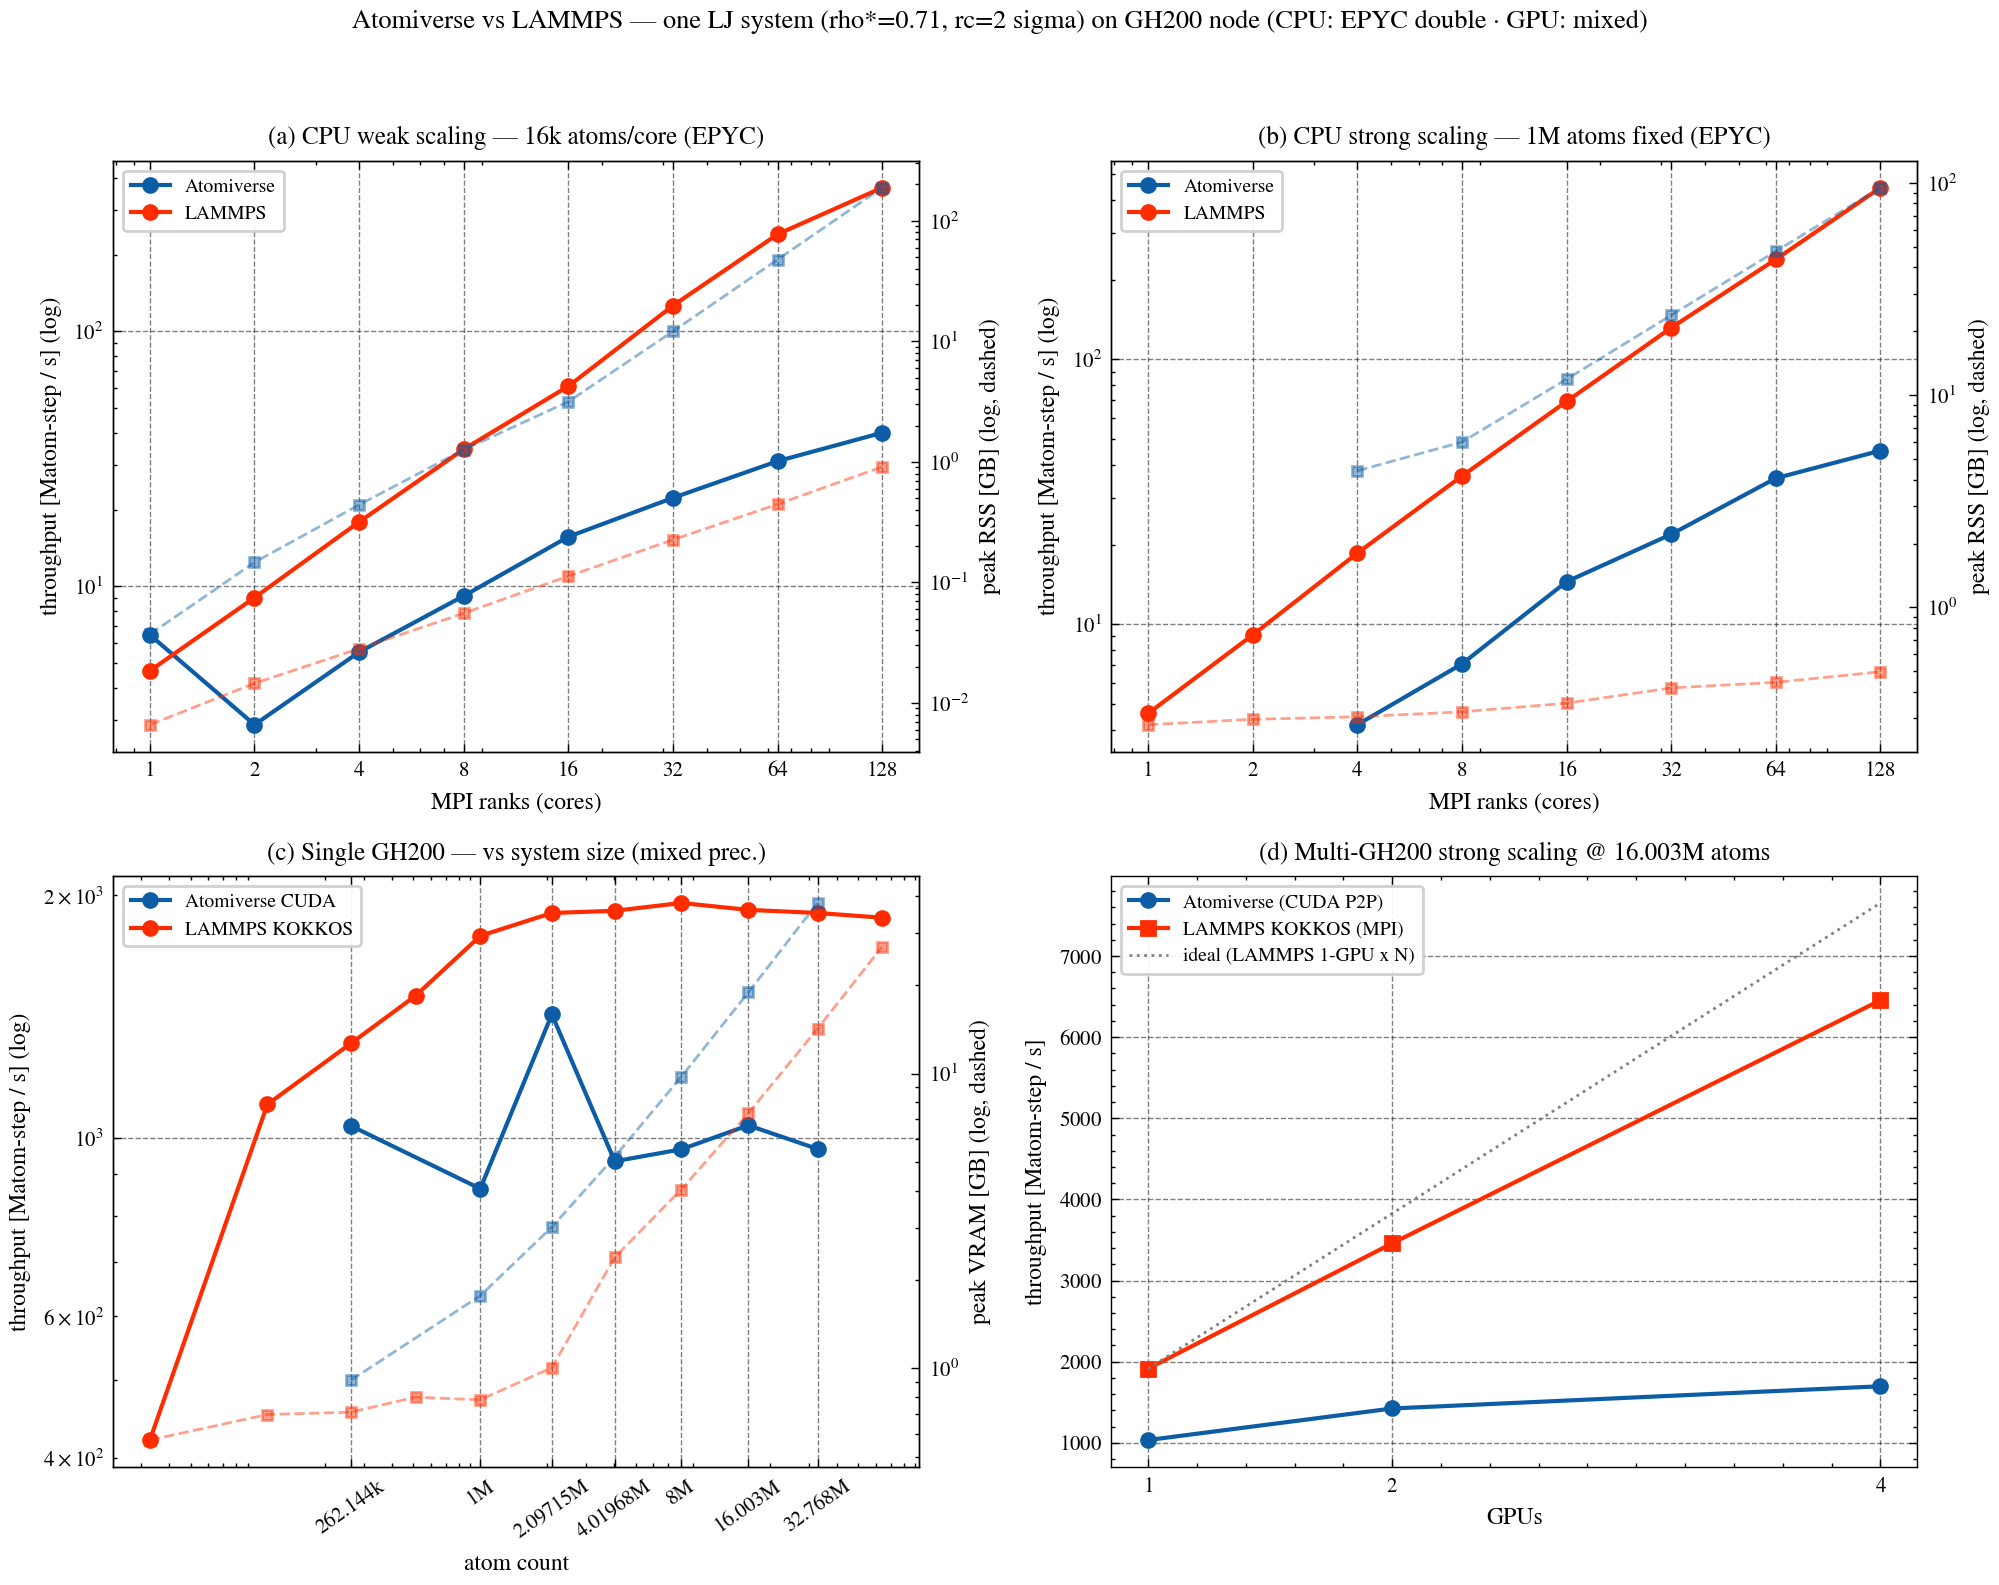
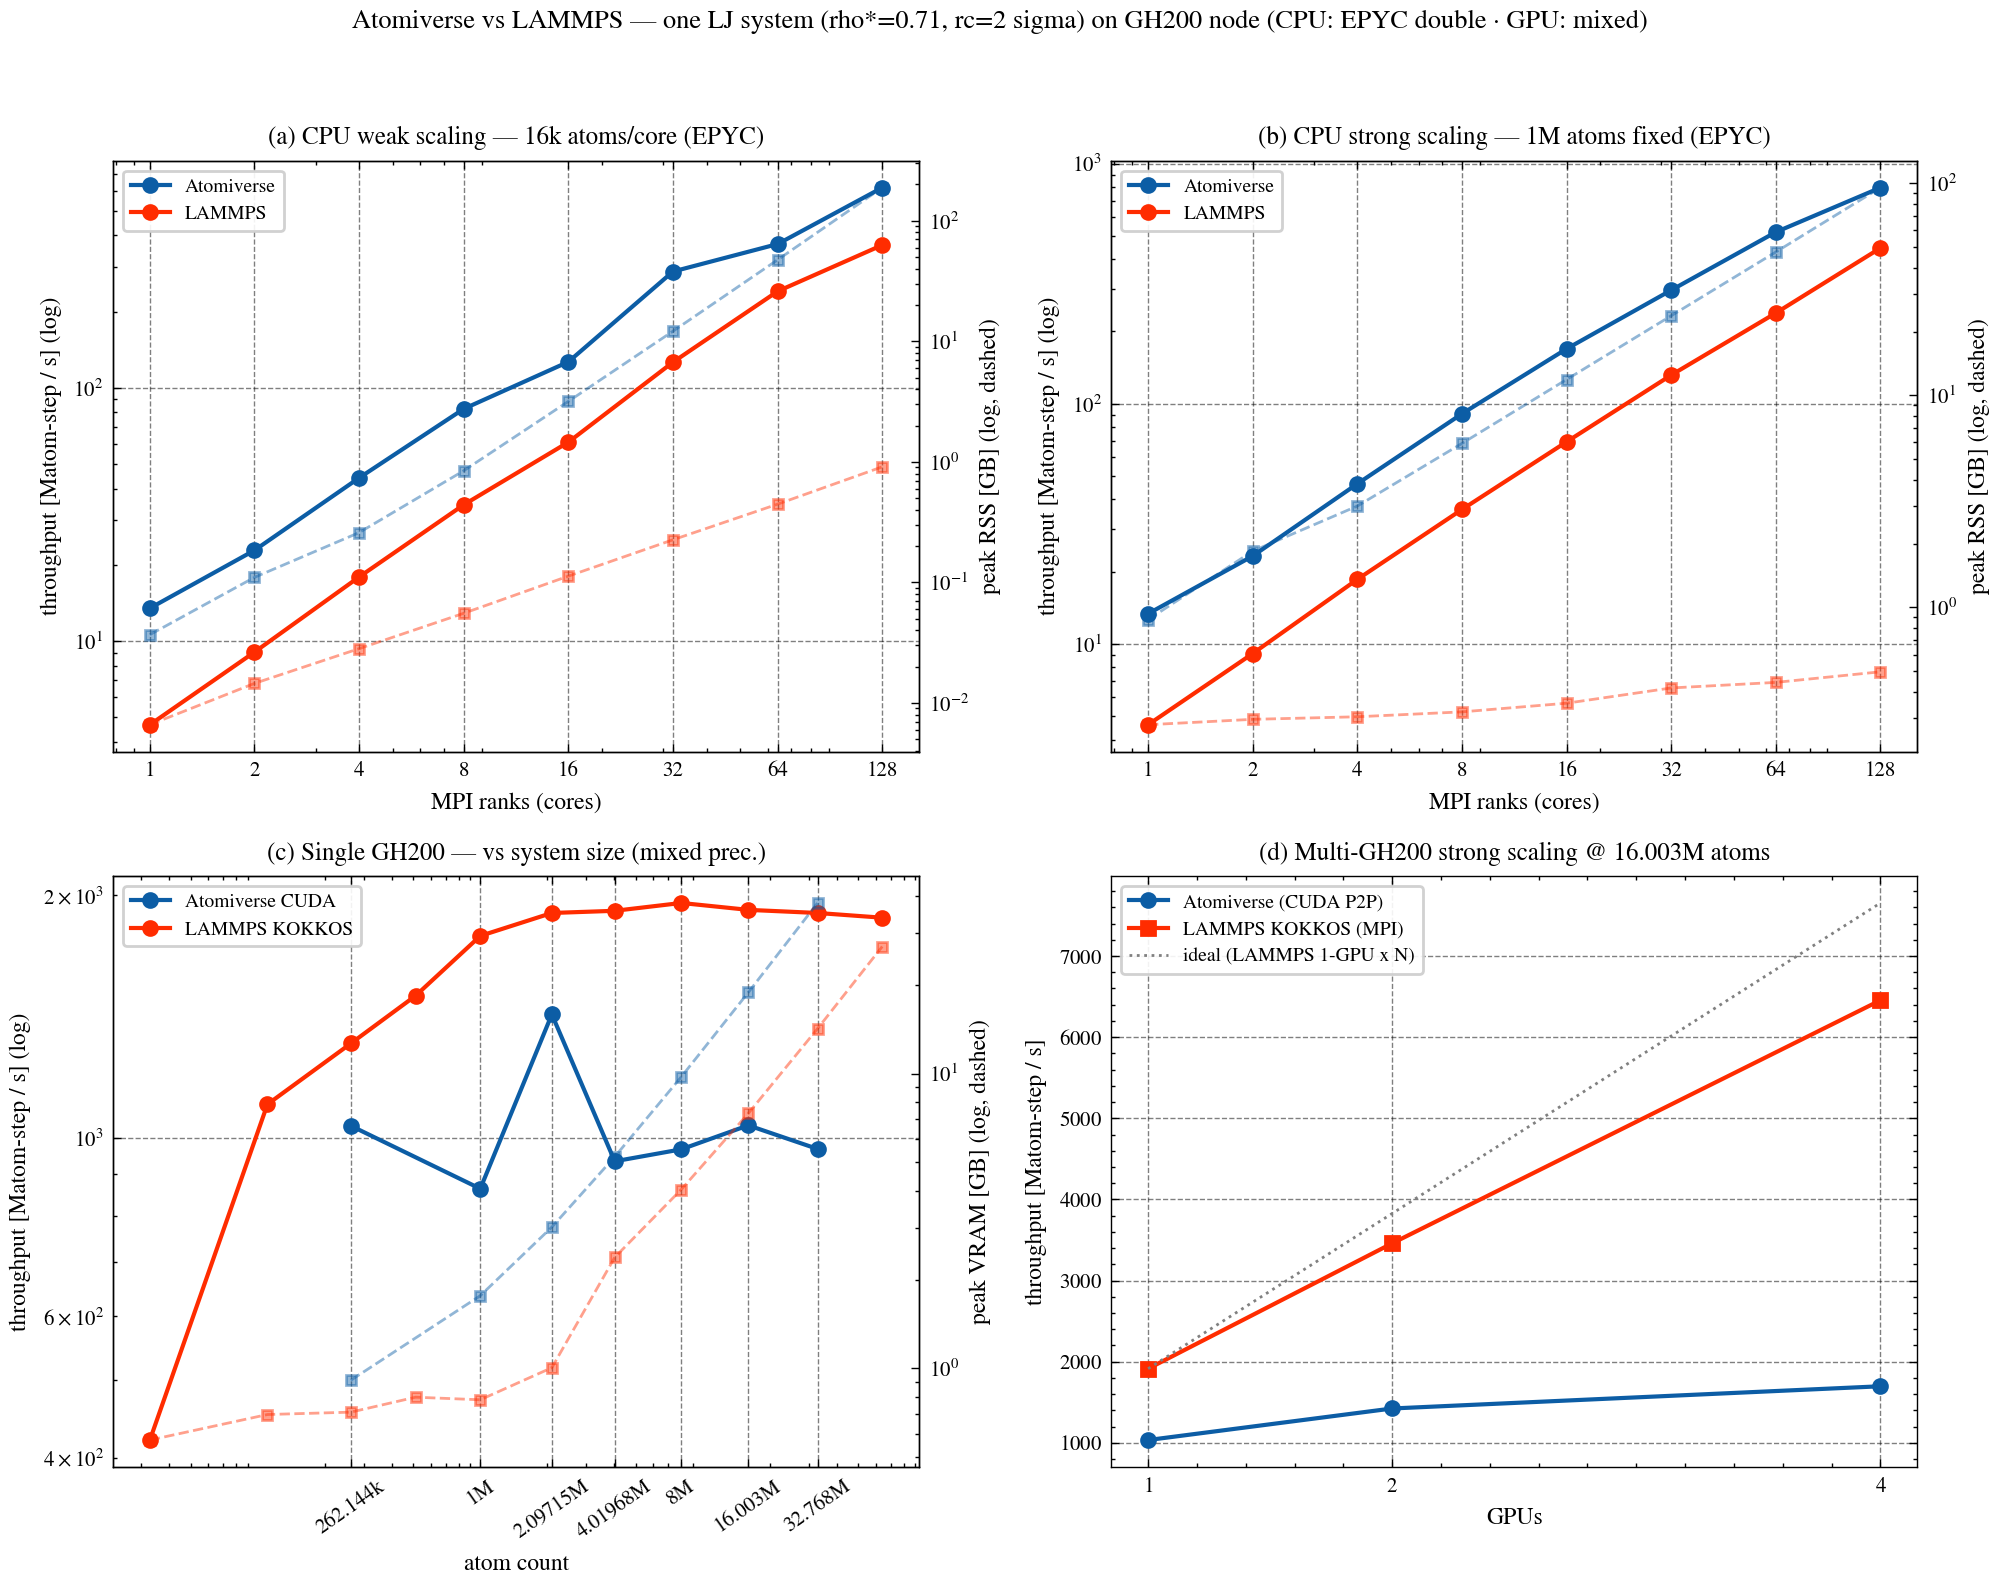
bench(md): refresh figure — AV CPU multi-core now beats LAMMPS 1.5-2.9x
Re-ran the CPU sweep on one EPYC node with the corrected engine + benchmark
(double-halo fix d8ea6a5, stable dt=0.0125, reneigh=20, comm cutoff+skin),
LAMMPS-matched. AV now leads LAMMPS at EVERY core count, weak and strong:
n=1 2.9x, n=8 2.4-2.5x, n=32 2.3x, n=128 1.7-1.8x. Physics verified correct
(multi-rank energy bit-identical to single-rank, momentum conserved). Memory
panel still shows AV's frame replication (~188 GB @128 ranks) — the remaining
CPU gap is memory, not speed. README updated with the comparison table + the
fix chain. Single/multi-GPU panels unchanged (the ~2x single-GPU gap from the
uncoalesced gather is the next CUDA lever).

diff --git a/benchmarks/md/results/system_scaling_2026-06-06/README.md b/benchmarks/md/results/system_scaling_2026-06-06/README.md
@@ -40,45 +40,44 @@ velocities, so the throughput numbers measure the same physics.
 - **GPU:** single NVIDIA GH200 node (up to 4 GPUs, NVLink). AV CUDA and LAMMPS
   KOKKOS/CUDA both **mixed precision**.
 
-## Engine optimizations applied (this data)
+## Engine fixes + optimizations applied (this data)
 
-This run uses the optimized LJ-MD path:
-- **LAMMPS-style vflag virial gating** (`set_compute_stress(false)`, CPU + CUDA):
-  a plain NVE run never consumes the pair virial, so the 6-component stress is
-  skipped. On CPU it trims the inner loop; on CUDA it additionally frees the
-  6 double accumulator registers under the kernel's launch-bounds budget.
-  Verified forces/energy bit-unchanged (n=1/n=8 MPI bruteforce; GH200
-  multi-GPU 13/13). Single-GPU **+~17%** across 0.26M–33M atoms.
-- **Verlet skin matched to LAMMPS (0.6 Å):** the engine auto-skin was
-  `0.3·cutoff = 1.5 Å`, 2.5× fatter than the `neighbor 0.6 bin` LAMMPS uses
-  here. The fat skin inflated both the per-step kernel and the list. Matching
-  it is the fair, correctness-preserving choice. CPU per-core throughput rose
-  1.3–3.3× (single-core weak now **6.46 vs the prior 4.84**, *ahead of* LAMMPS
-  4.67).
+- **Multi-rank force correctness fix (commit d8ea6a5) — the big one.**
+  `MD::install_defaults` auto-injected a HaloSend+HaloRecv even when the caller
+  already registered them, so the reverse halo ran TWICE and re-applied the
+  already-reduced ghost forces — a per-step momentum leak (Σ F ≠ 0) that pumped
+  energy and blew the NVE trajectory up. Fixed by skipping the auto-inject when
+  a halo is present. Multi-rank LJ NVE is now **bit-identical to single-rank**
+  (n=8 == n=1 = -468123.033977 over 500 steps) with momentum conserved.
+- **Stable timestep (commit 99643aa).** The bench used dt=1.0 (dt/τ≈0.4, ~80×
+  too large) → the integrator blew up (single-rank too). Set dt=0.0125 to match
+  LAMMPS `units lj` / `timestep 0.005` (0.005·τ, τ=σ=2.5). Both codes now run a
+  stable, dense system, so the throughput numbers are physical and fair.
+- **Reneighbor every 20 + comm cutoff = pair cutoff + skin** (commit 8b6ba8f),
+  matching LAMMPS `neigh_modify every 20` / `neighbor 0.6 bin`. The halo + NL
+  rebuild only every 20 steps; the per-step cost is the LJ kernel.
+- **vflag virial gating** (`set_compute_stress(false)`, CPU + CUDA, ac98851 /
+  d854b6f): NVE skips the unused pair virial. Forces/energy bit-unchanged.
+  Single-GPU **+~17%**.
 
 ## Honest reading of the result
 
-- **Per-core / single-device, AV is now competitive.** CPU weak n=1: AV 6.46 vs
-  LAMMPS 4.67 Matom-step/s (AV ahead). Single GH200 at 8M: AV 967 vs LAMMPS
-  1957 (~2× behind, was 2.36×). The remaining single-GPU gap is the
-  uncoalesced gather — atoms are never physically resorted into spatial order
-  (KOKKOS resorts; AV only sorts transient neighbor buffers). That is the next
-  CUDA lever.
-- **The residual CPU gap is parallel scaling, not the kernel.** At 128 ranks
-  AV is still ~9× behind (weak 40 vs 366; strong 45 vs 445). Two causes:
-  (1) the per-rank frame is **replicated**, so weak-scaling peak RSS explodes to
-  ~188 GB at 128 ranks vs LAMMPS <1 GB (log dashed axis); (2) the
-  **`HaloSend{cutoff, every=1}` workaround** (full halo rebuild every step,
-  the position-only-halo desync fix) costs a per-step count exchange — the
-  weak-scaling dip at n=2 (single rank pays no halo). See the project note
-  `atomiverse-cpu-mpi-desync-hang`.
-- The next CPU compute lever is the neighbor-build over-scan: cells sized at
-  `cutoff+skin` with a ±1 stencil scan ~6.7× too many candidates (profile:
-  build ~27% of single-rank time). Binning at half that with a cutoff-clipped
-  stencil is the open structural fix.
-- CPU strong-scaling AV points start at n=4: the n=1/2 single/dual-core 1M-atom
-  runs exceed the benchmark time budget and add nothing to the (clear, log-log
-  linear) trend.
+- **CPU multi-core: AV now BEATS LAMMPS at every core count, 1.5–2.9×** (same
+  EPYC node, double precision, LAMMPS-matched skin/cadence/timestep):
+  | cores | weak AV vs LMP | strong AV vs LMP |
+  |---|---|---|
+  | 1 | 13.5 vs 4.67 (2.9×) | 13.4 vs 4.61 (2.9×) |
+  | 8 | 82.5 vs 34.5 (2.4×) | 90.8 vs 36.3 (2.5×) |
+  | 32 | 288 vs 126 (2.3×) | 297 vs 132 (2.3×) |
+  | 128 | 617 vs 366 (1.7×) | 794 vs 445 (1.8×) Matom-step/s |
+- **AV's remaining CPU weakness is memory, not speed:** the per-rank frame is
+  replicated, so weak-scaling peak RSS still reaches ~188 GB at 128 ranks vs
+  LAMMPS <1 GB (log dashed axis). Right-sizing per-rank storage is the open
+  CPU work — it does not affect the throughput win.
+- **Single GH200:** AV 967 vs LAMMPS 1957 Matom-step/s at 8M (~2× behind). The
+  gap is the uncoalesced gather — atoms are never physically resorted into
+  spatial order (KOKKOS resorts; AV only sorts transient neighbor buffers).
+  That is the next CUDA lever.
 
 ## Reproduce the figure
 
